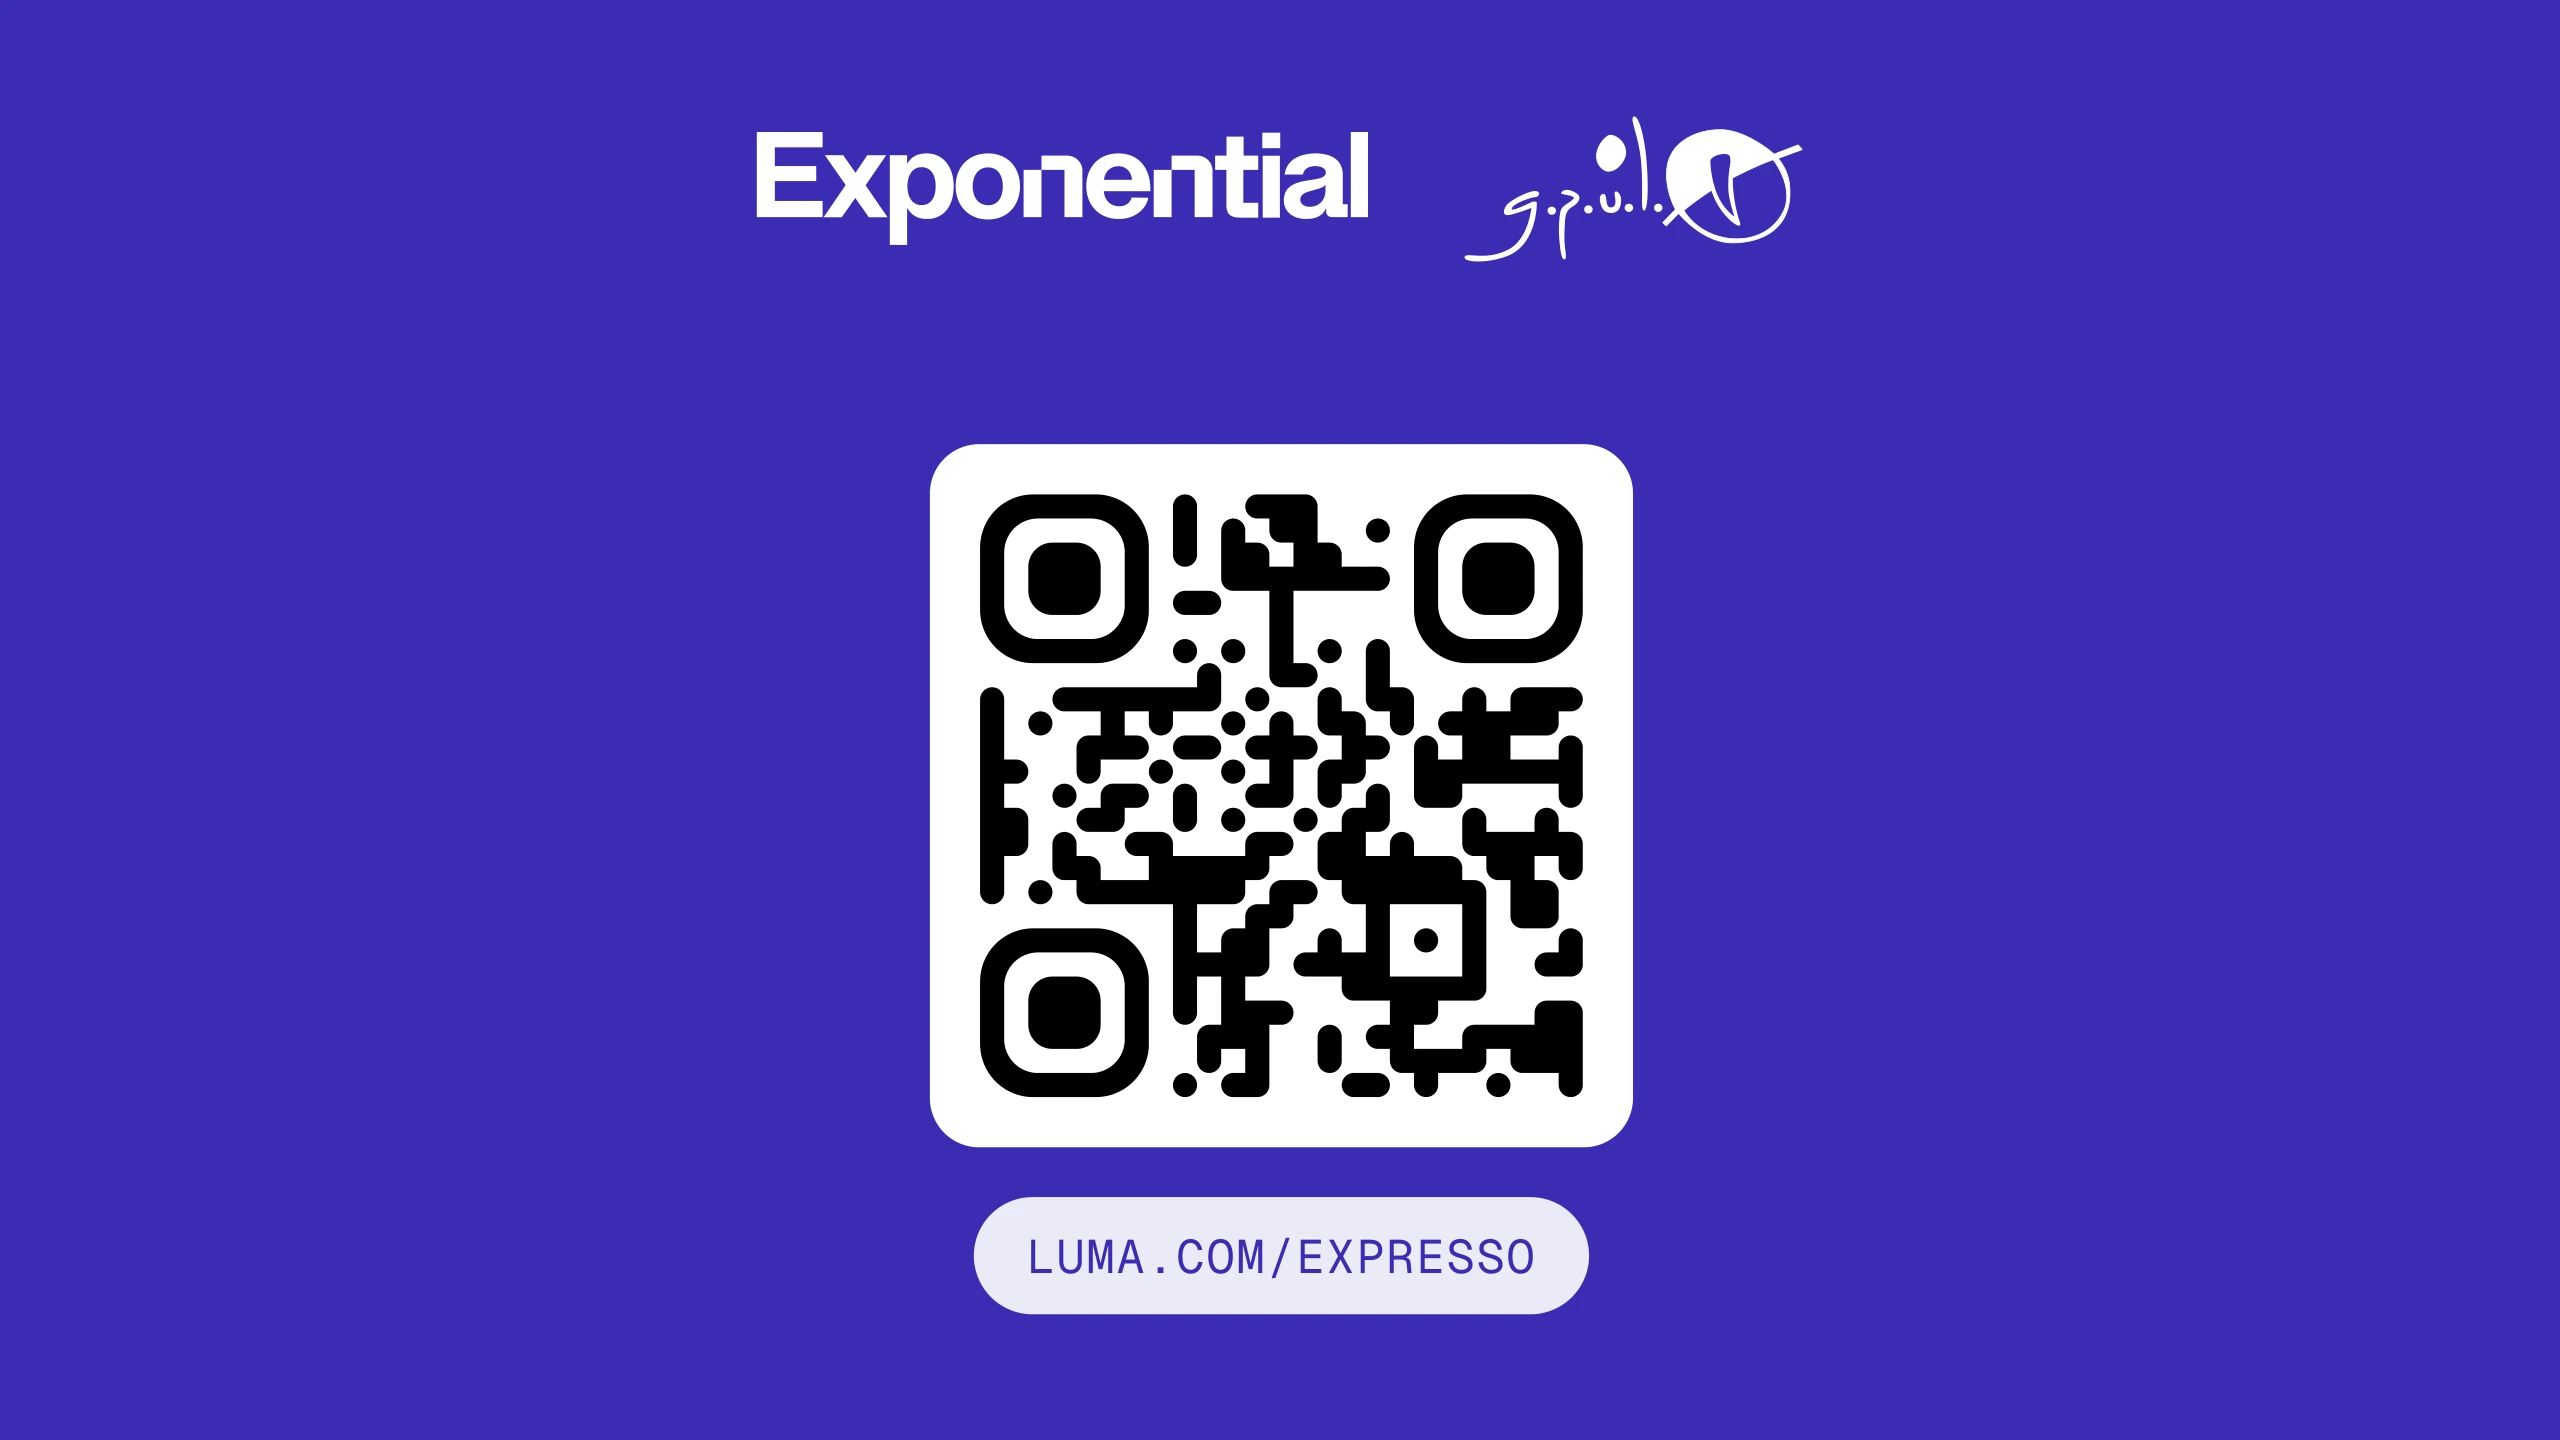
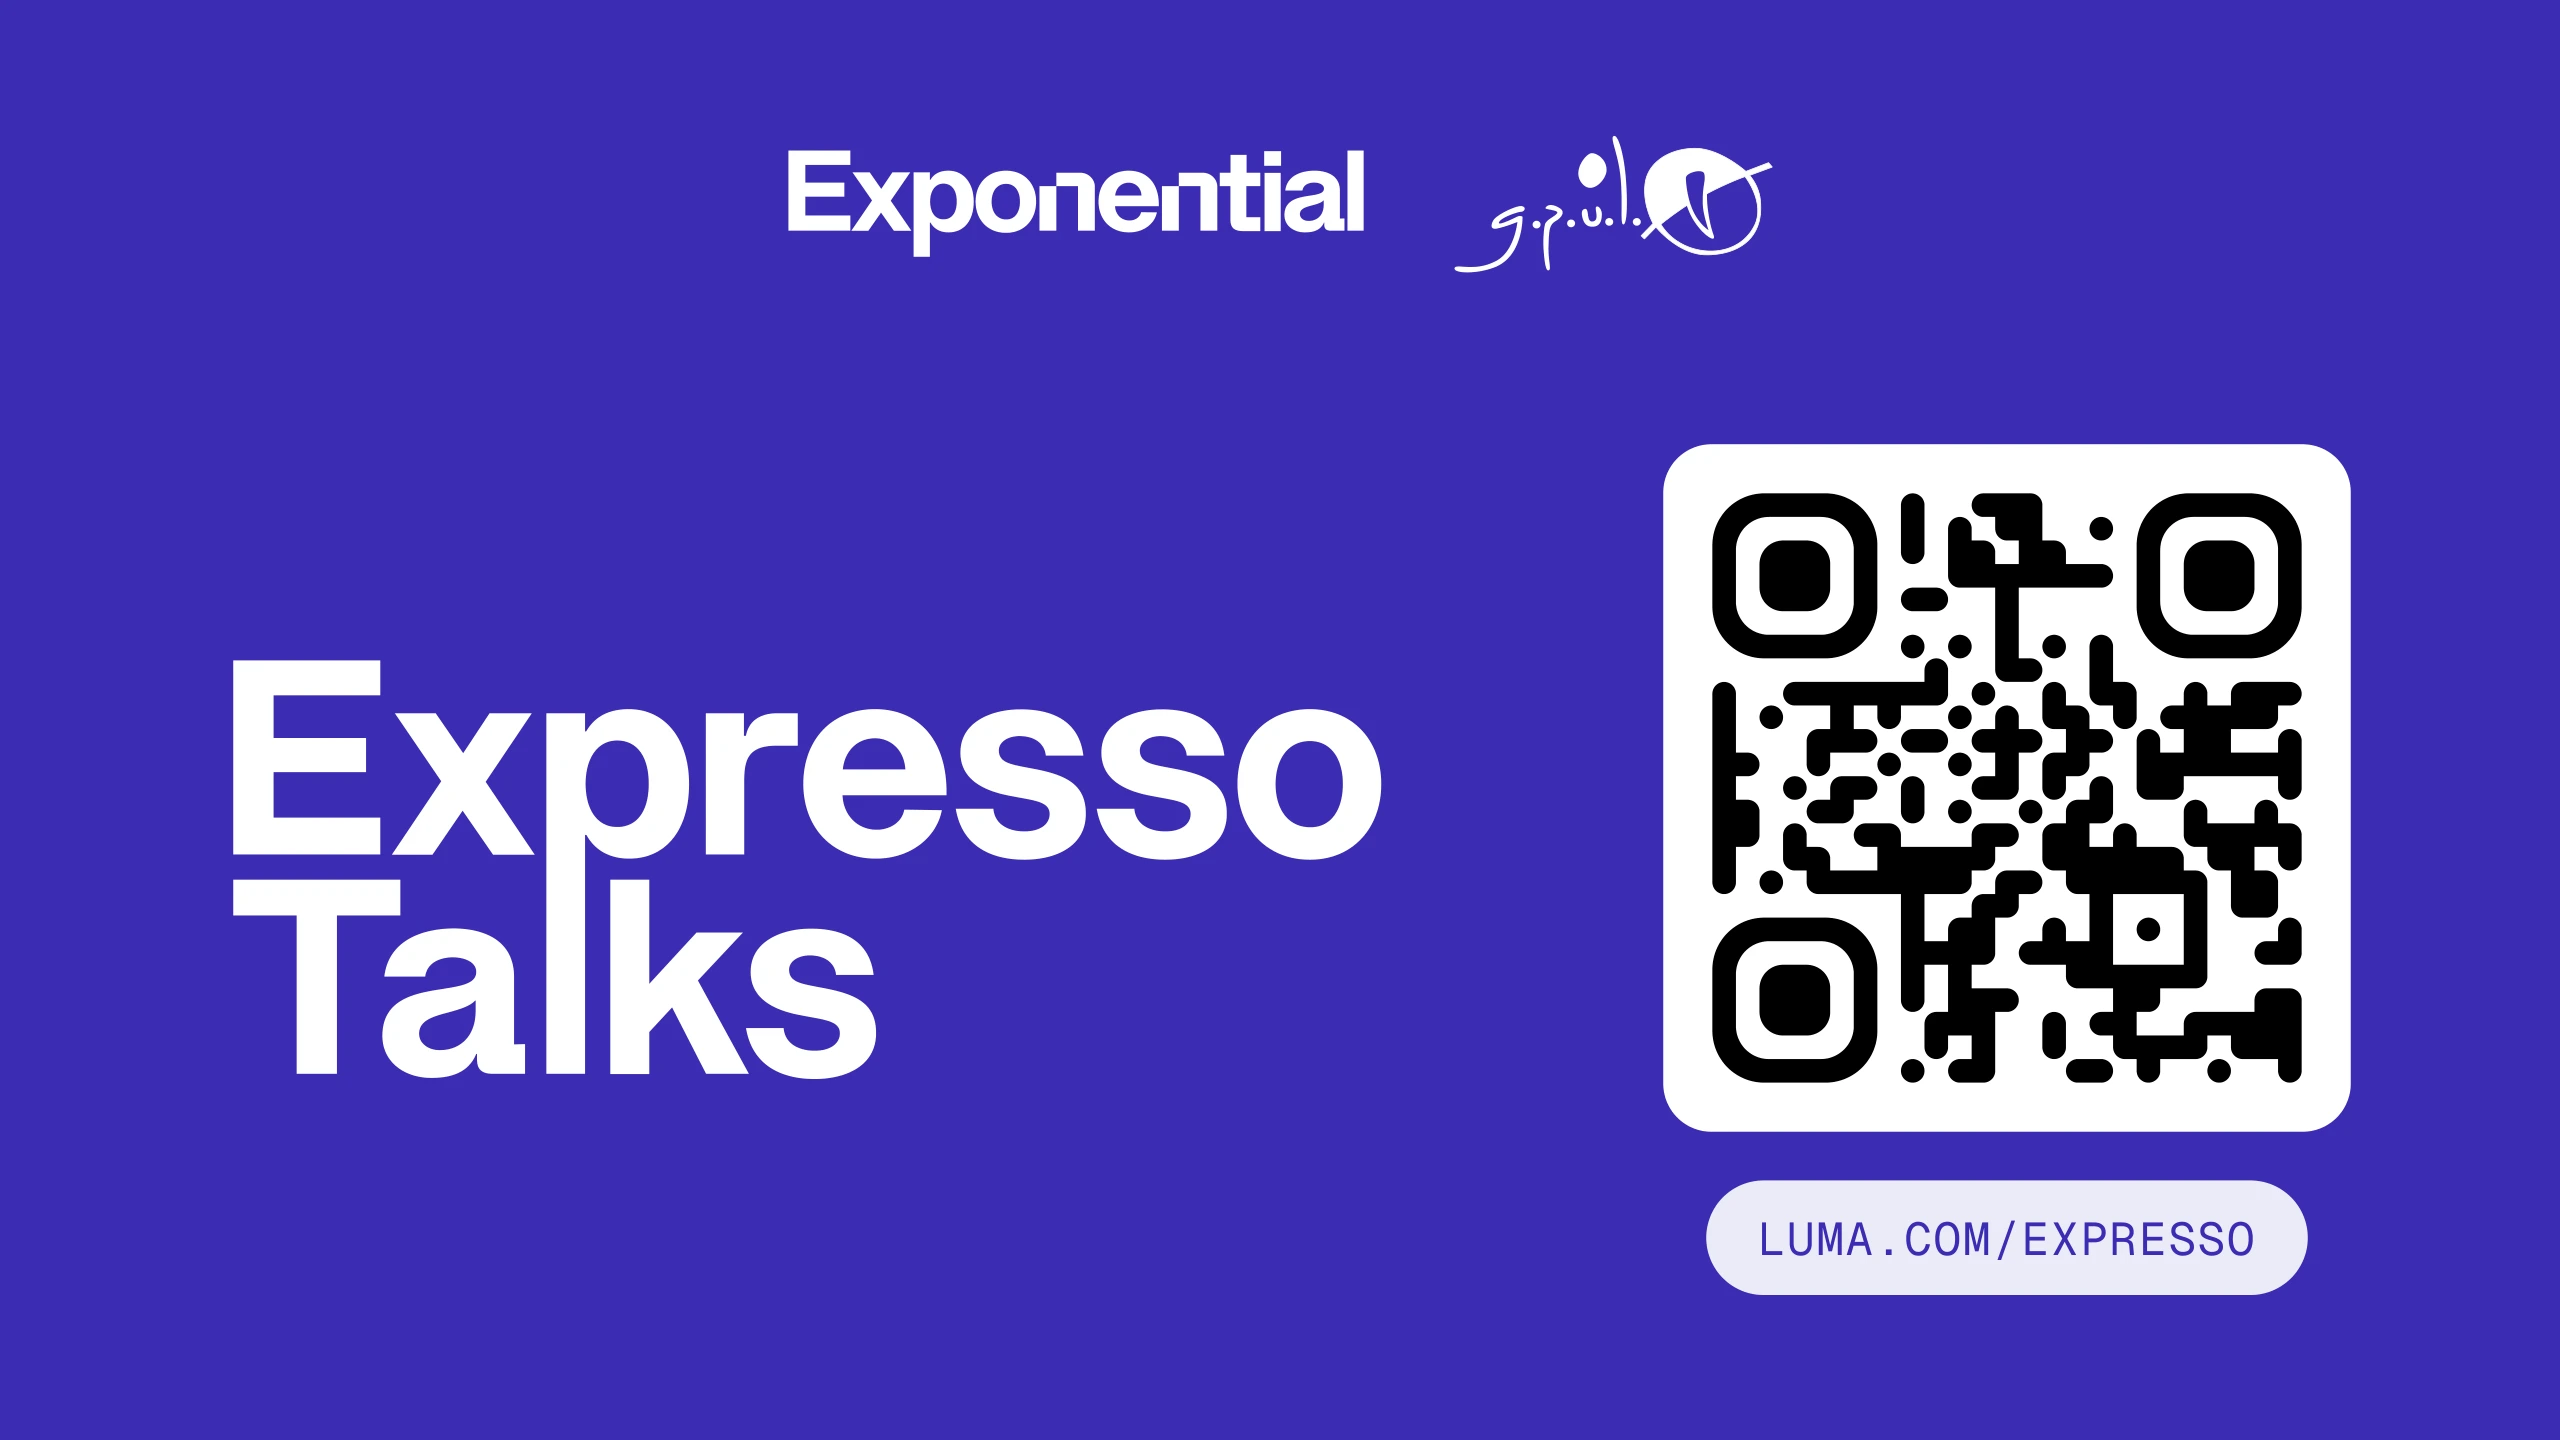
feat(expreso-2): «Expresso Talks» en la diapositiva de cierre
Claude-Session: https://claude.ai/code/session_01VsJH7yx9XUP5cQP55QPv4K

diff --git a/src/frontend/public/expreso-2/index.html b/src/frontend/public/expreso-2/index.html
@@ -89,7 +89,7 @@
 <section class="slide"><img class="full" src="barkibu.webp?v=2" alt="El equipo de Barkibu"></section>
 
 <!-- 9: cierre morado: letras de Exponential y GPUL + QR de luma.com/expresso (recortes de la página 5 del PDF) -->
-<section class="slide sheet"><img src="cierre-expresso.webp" alt="Exponential · GPUL · luma.com/expresso"></section>
+<section class="slide sheet"><img src="cierre-expresso.webp?v=3" alt="Exponential · GPUL · Expresso Talks · luma.com/expresso"></section>
 
 <!-- 10: cierre en negro -->
 <section class="slide"></section>
